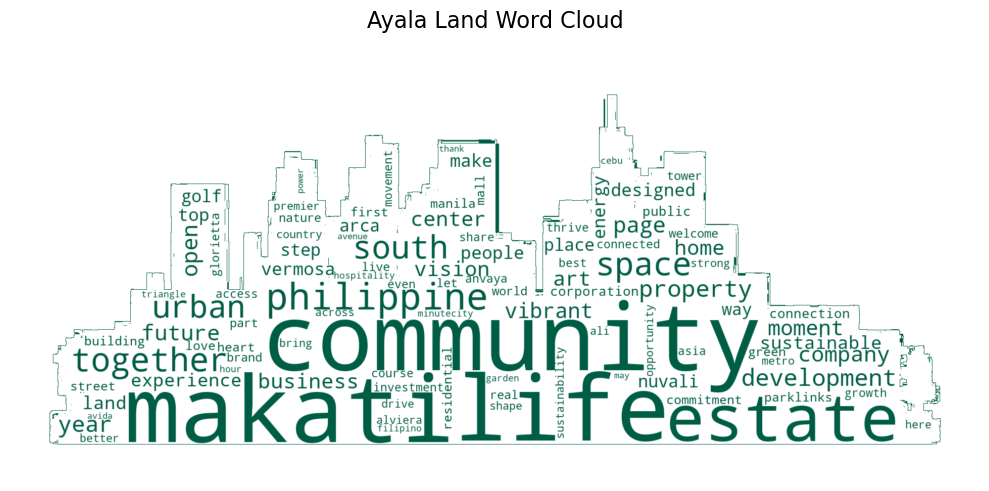
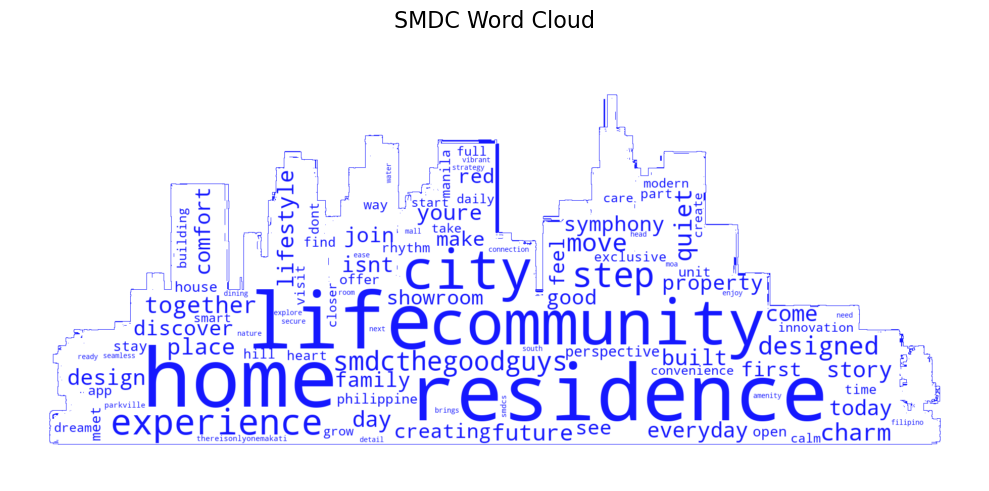
Fixed Theme Bug

diff --git a/components/AnswerBoard.jsx b/components/AnswerBoard.jsx
@@ -63,7 +63,7 @@ export default function AnswerBoard({ answers }) {
 
     return (
         <div className="grid grid-cols-2 grid-rows-5 gap-8 items-center justify-center w-full h-[50%] mt-8 py-8 px-64 gap-x-22">
-            {/* Preloaded, hidden masters (dummy directory) */}
+            
             <audio ref={hoverRef} src="/BG/hover.wav" preload="auto" />
             <audio ref={clickRef} src="/BG/click2.wav" preload="auto" />
 
@@ -73,9 +73,9 @@ export default function AnswerBoard({ answers }) {
                     {/* Diamond button */}
                     <button
                         type="button"
-                        onPointerEnter={playHover}               /* hover sound (mouse/touch) */
-                        onFocus={playHover}                      /* keyboard focus a11y */
-                        onClick={() => { playClick(); toggle(i); }} /* click sound + toggle reveal */
+                        onPointerEnter={playHover}               /* Hover SFX */
+                        onFocus={playHover}                      /* Keyboard Focus */
+                        onClick={() => { playClick(); toggle(i); }} /* Click SFX */
                         className="relative inline-block group focus:outline-none hover:cursor-pointer"
                         aria-pressed={revealed[i]}
                         aria-label={revealed[i] ? 'Hide answer' : 'Reveal answer'}
@@ -89,12 +89,12 @@ export default function AnswerBoard({ answers }) {
                         </div>
                     </button>
 
-                    {/* Stacked layers: "?" fades out, real content fades/slides in */}
+                    {/* Content Layer */}
                     <div className="question-container relative overflow-hidden flex-1 h-full linear-blue mix-blend-plus-lighter rounded-2xl flex items-center pl-6">
 
                         <div className="score-layer isolate h-full w-18 linear-blue mix-blend-screen rounded-2xl absolute right-0 z-0" />
                         
-                        {/* Placeholder Container */}
+                        {/* Placeholder Layer */}
                         <div className={`absolute inset-0 flex items-center pl-6 transition-all duration-300 ease-out
                           ${revealed[i] ? 'opacity-0 -translate-y-2' : 'opacity-100 translate-y-0'}`}
                         >
@@ -117,7 +117,7 @@ export default function AnswerBoard({ answers }) {
                             </div>
                         </div>
 
-                        {/* Real Content Container */}
+                        {/* Real Content Layer */}
                         <div className={`absolute inset-0 flex items-center pl-6 transition-all duration-300 ease-out
                           ${revealed[i] ? 'opacity-100 translate-y-0' : 'opacity-0 translate-y-2'}`}
                         >

diff --git a/data/questions.ts b/data/questions.ts
@@ -10,22 +10,23 @@ export interface Question {
 }
 
 export const MegaQuestions: Question[] = [
-    {
+        {
         id: 1,
-        question: "What are the Top Words for Ayala Land?",
+        question: "What are the Top Words for SMDC?",
         answers: [
-            { answer: "community", points: 37 },
-            { answer: "makati", points: 36 },
-            { answer: "life", points: 35 },
-            { answer: "estate", points: 34 },
-            { answer: "philippine", points: 31 },
-            { answer: "together", points: 24 },
-            { answer: "space", points: 23 },
-            { answer: "south", points: 22 },
-            { answer: "urban", points: 21 },
-            { answer: "development", points: 21 }
+            { answer: "home", points: 72 },
+            { answer: "residence", points: 67 },
+            { answer: "life", points: 67 },
+            { answer: "community", points: 45 },
+            { answer: "city", points: 36 },
+            { answer: "experience", points: 27 },
+            { answer: "step", points: 26 },
+            { answer: "smdcthegoodguys", points: 25 },
+            { answer: "designed", points: 23 },
+            { answer: "move", points: 23 }
         ]
     },
+
     {
         id: 2,
         question: "What are the Top Words for Robinsons Land?",
@@ -42,22 +43,25 @@ export const MegaQuestions: Question[] = [
             { answer: "business", points: 26 }
         ]
     },
+
+
     {
         id: 3,
-        question: "What are the Top Words for SMDC?",
+        question: "What are the Top Words for Ayala Land?",
         answers: [
-            { answer: "home", points: 72 },
-            { answer: "residence", points: 67 },
-            { answer: "life", points: 67 },
-            { answer: "community", points: 45 },
-            { answer: "city", points: 36 },
-            { answer: "experience", points: 27 },
-            { answer: "step", points: 26 },
-            { answer: "smdcthegoodguys", points: 25 },
-            { answer: "designed", points: 23 },
-            { answer: "move", points: 23 }
+            { answer: "community", points: 37 },
+            { answer: "makati", points: 36 },
+            { answer: "life", points: 35 },
+            { answer: "estate", points: 34 },
+            { answer: "philippine", points: 31 },
+            { answer: "together", points: 24 },
+            { answer: "space", points: 23 },
+            { answer: "south", points: 22 },
+            { answer: "urban", points: 21 },
+            { answer: "development", points: 21 }
         ]
     },
+
     {
         id: 4,
         question: "What are the Top Words for Megaworld?",

diff --git a/app/question/[id]/wordcloud/page.jsx b/app/question/[id]/wordcloud/page.jsx
@@ -8,17 +8,16 @@ import AnswerBoard from '@/components/AnswerBoard';
 
 export default async function page({ params }) {
 
-  // 1) await the params object
+  // 1) Await the params object
   const { id } = await params;
 
-
-  // 2) await headers()
+  // 2) Await headers()
   const hdr = await headers();
   const host = hdr.get("x-forwarded-host") ?? hdr.get("host");
   const protocol = host?.includes("localhost") ? "http" : "https";
   const origin = `${protocol}://${host}`;
 
-  // 3) now build a valid absolute URL
+  // 3) Build an Absolute URL
   const res = await fetch(
     `${origin}/api/questions/${id}`,
     { next: { revalidate: 0 } }
@@ -51,20 +50,13 @@ export default async function page({ params }) {
           <div className='rounded-2xl overflow-hidden flex justify-center w-[85%] h-auto mb-8'>
             <img src={`/assets/wordcloud/${id}.png`} className='w-full h-full'></img>
           </div>
-          
 
-            <p className='text-sm filter drop-shadow-lg text-outline z-50 -mt-2 tracking-wider' 
-                style={{
-                  textShadow: [
-                    '-1px -1px 0 #000',
-                    ' 1px -1px 0 #000',
-                    '-1px  1px 0 #000',
-                    ' 1px  1px 0 #000',
-                  ].join(',')
-                }}>
-                Based on the Company's Facebook Posts from January to July 2025
-            </p>
-        
+
+          <p className='text-sm filter drop-shadow-lg text-outline z-50 -mt-2 tracking-widest'
+          >
+            Based on the Company's Facebook Posts from January to July 2025
+          </p>
+
         </div>
 
 

diff --git a/app/question/[id]/board/page.jsx b/app/question/[id]/board/page.jsx
@@ -8,17 +8,16 @@ import AnswerBoard from '@/components/AnswerBoard';
 
 export default async function page({ params }) {
 
-  // 1) await the params object
+  // 1) Await the params object
   const { id } = await params;
 
-
-  // 2) await headers()
+  // 2) Await headers()
   const hdr = await headers();
   const host = hdr.get("x-forwarded-host") ?? hdr.get("host");
   const protocol = host?.includes("localhost") ? "http" : "https";
   const origin = `${protocol}://${host}`;
 
-  // 3) now build a valid absolute URL
+  // 3) Build an Absolute URL
   const res = await fetch(
     `${origin}/api/questions/${id}`,
     { next: { revalidate: 0 } }
@@ -28,13 +27,7 @@ export default async function page({ params }) {
   const question = await res.json();
 
 
-  // Click SFX Logic
-  
-
-
   return (
-
-    
 
     <div className="relative flex flex-col w-full h-screen items-center justify-center isolation isolate">
       {/* VIDEO BG */}
@@ -52,9 +45,6 @@ export default async function page({ params }) {
       <div className='absolute w-full h-full black-overlay-top mix-blend-multiply -z-20 top-0'></div>
 
       
-
-
-
 
       {/* MAIN CONTAINER */}
       <div className='flex flex-col items-center justify-center w-full -mt-8 '>
@@ -177,8 +167,6 @@ export default async function page({ params }) {
             <CloudHail className="w-6 h-6 text-white -ml-0.5" />
           </div>
         </Link>
-
-        
 
         <Link href={id==4 ? `/` : `/question/${Number(id)+1}`}>
           <div className='flex flex-col w-12 h-12 rounded-full border-[1px] boder-white/80 mix-blend-lighten items-center justify-center z-50'>

diff --git a/app/page.jsx b/app/page.jsx
@@ -68,9 +68,9 @@ export default function Home() {
       {needsAction && (
         <button
           onClick={enableSound}
-          className="fixed bottom-6 right-6 rounded-full px-4 py-2 bg-white/20 backdrop-blur text-white"
+          className="fixed bottom-6 right-6 rounded-full px-4 py-2 bg-white/20 backdrop-blur text-white hover:cursor-pointer"
         >
-          Enable sound
+          <VolumeOffIcon></VolumeOffIcon>
         </button>
       )}
 
@@ -78,7 +78,7 @@ export default function Home() {
       {!needsAction && (
         <button
           onClick={toggleSound}
-          className="fixed bottom-6 right-6 rounded-full px-4 py-2 bg-white/20 backdrop-blur text-white"
+          className="fixed bottom-6 right-6 rounded-full px-4 py-2 bg-white/20 backdrop-blur text-white hover:cursor-pointer"
         >
           {
             isPlaying ? <Volume2Icon></Volume2Icon> : <VolumeOffIcon></VolumeOffIcon>

diff --git a/app/globals.css b/app/globals.css
@@ -21,6 +21,10 @@
   }
 }
 
+* {
+  color: #FFFFFF;
+}
+
 body {
   background: var(--background);
   color: var(--foreground);
